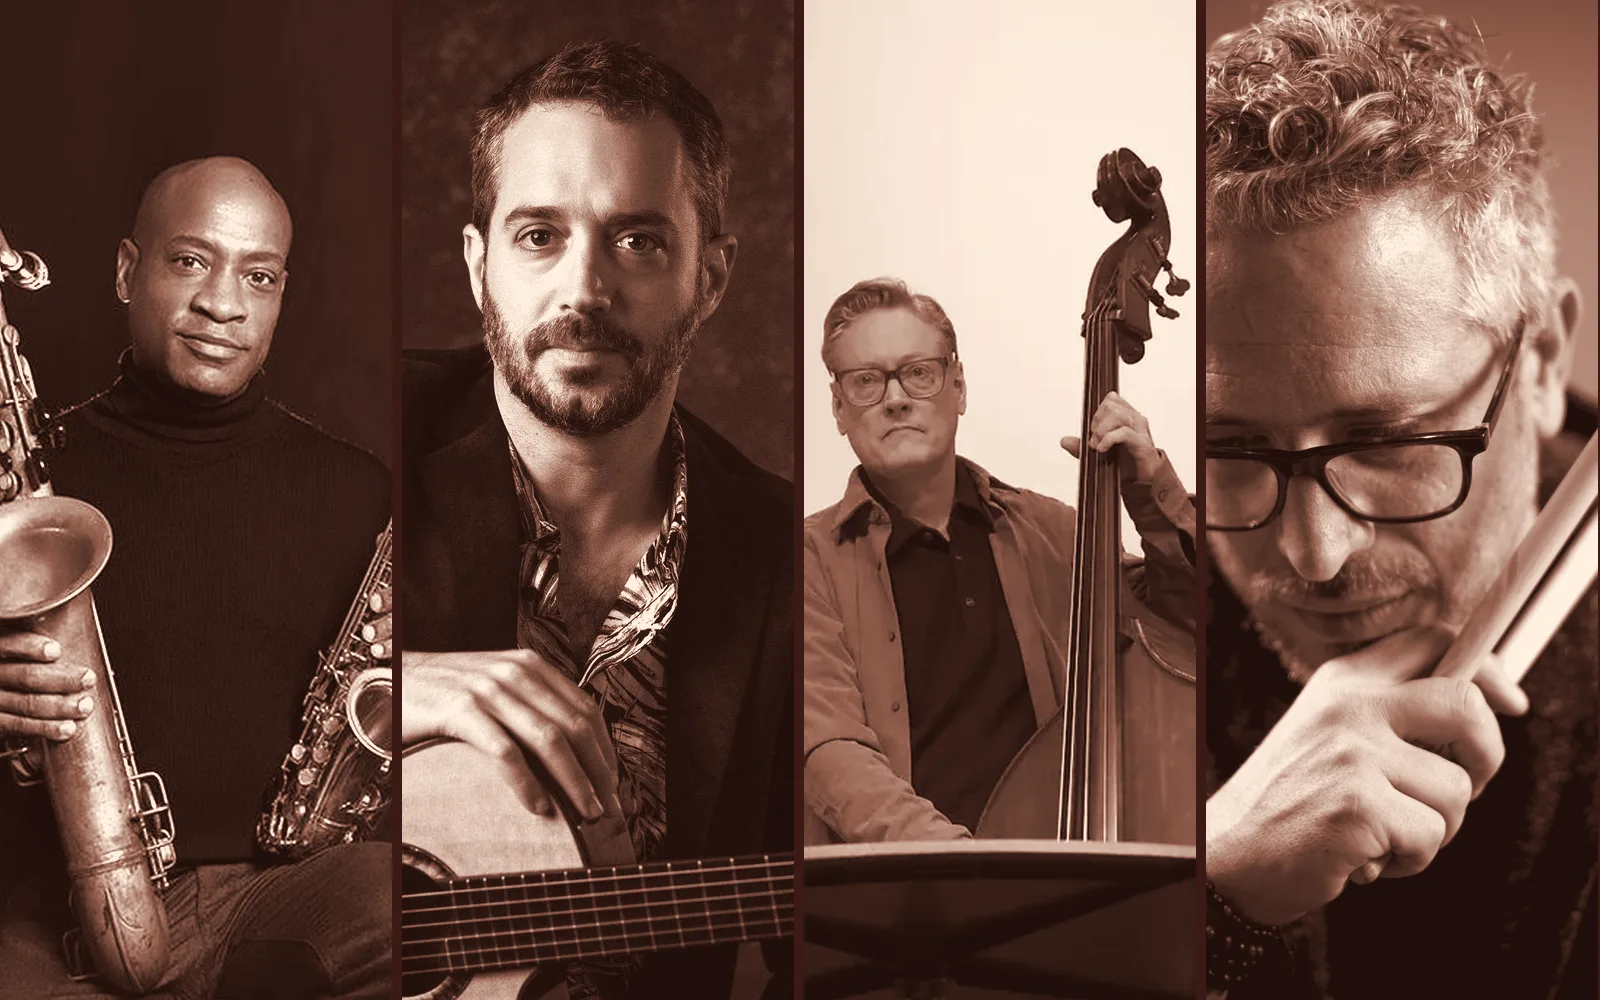
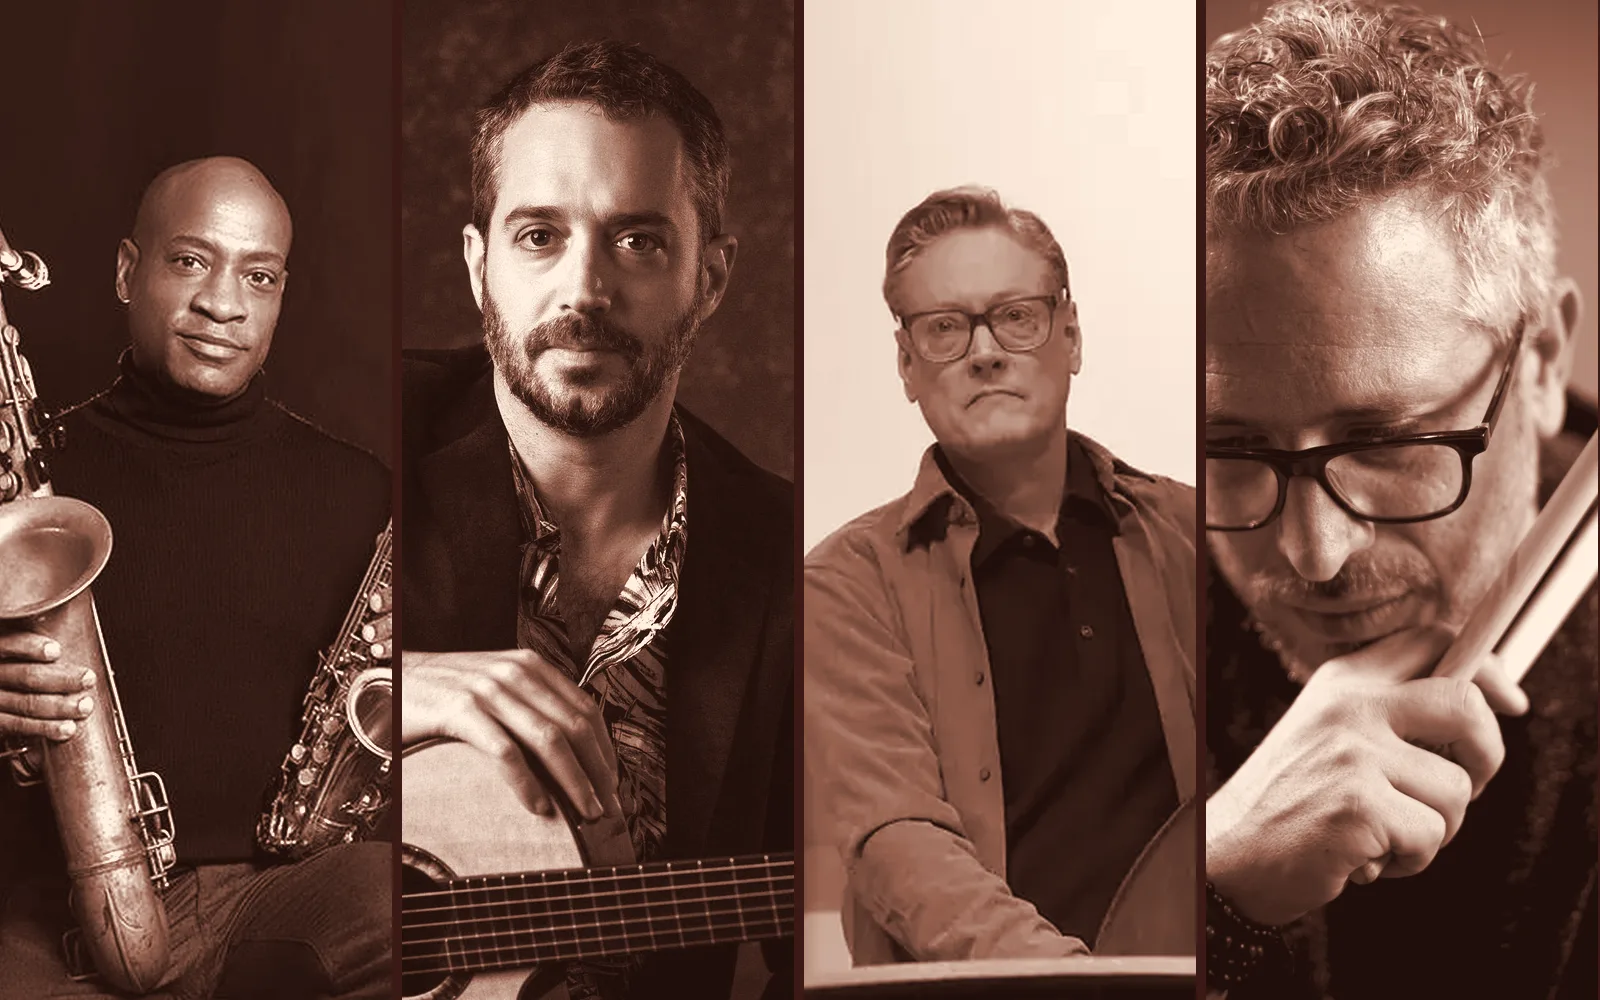
Guests baked into the show photo (Addis Ken + Ehud Banai, Amit Friedman & Strings + Joca) so previews show them too; Doug Weiss larger in the New York Junction photo

Changed region(s): [[0.5, 0.124, 0.75, 0.992]]

diff --git a/preview-uz9hsq/assets/data.js b/preview-uz9hsq/assets/data.js
@@ -159,7 +159,7 @@ const SHOWS = [
     about_en: ["In a special production for the festival, saxophonist and composer Amit Friedman, winner of the Prime Minister’s Prize for Composers, presents a new line-up: a jazz quartet alongside ten string players, hosting Brazilian percussionist, singer and songwriter Joca Perpignan. Original compositions by both, together with pieces they wrote jointly, bring the language of jazz together with the rich sound of strings and the rhythms of Brazil.", "Amit Friedman is one of the leading voices in Israeli jazz; his music is faithful to the jazz tradition while weaving in sounds from the Middle East and world music. His debut album, Sunrise, recorded with a sextet and string quartet, was the best-selling jazz album in Israel in the year of its release. He has since released albums on international labels such as Origin Records and Dot Time and performed with his band in Israel and Europe. Friedman is the founder of the festival and, for the second year, its musical director. Alongside his busy career as a saxophonist, he works extensively to promote jazz among young people.", "Joca Perpignan, born in Rio de Janeiro, came to Tel Aviv at 15 and has built a career in both countries. He is a member of the Idan Raichel Project, has played with Matti Caspi, Yoni Rechter and Arik Einstein, and internationally with Paquito D'Rivera, João Donato and Mayra Andrade."],
     cast: ["עמית פרידמן – סקסופון, לחנים ועיבודים · קטיה טובול – פסנתר · גיא לוי – קונטרבס · יונתן רוזן – תופים", "אבנר קלמר, טלי גולדברג, חן שנהר – כינורות · דניאל תנחלסון, יעל פטיש – ויולות · הילה אפשטיין, יעל שיזף – צ'לו", "אורח מיוחד: ז'וקה פרפיניאן – כלי הקשה ושירה"],
     cast_en: ["Amit Friedman – saxophone, compositions and arrangements · Katia Toubol – piano · Guy Levy – double bass · Yonatan Rosen – drums", "Avner Kelmer, Tali Goldberg, Chen Shenhar – violins · Daniel Tanchelson, Yael Patish – violas · Hila Epstein, Yael Shizaf – cello", "Special guest: Joca Perpignan – percussion and vocals"],
-    img: "2026-amit-strings.jpg", pos: "50% 30%", img2: "2026-joca.jpg", pos2: "88% 40%", credit2: "ז׳וקה: אריאל אפרון", credit2_en: "Joca: Ariel Efron" , slug: "event/32060" },
+    img: "2026-friedman-host.jpg", credit: "ז׳וקה: אריאל אפרון", credit_en: "Joca: Ariel Efron" , slug: "event/32060" },
   { id: "tenors", day: "fri", time: "19:30", dur: 60, featured: true,
     venue: "מועדון הסלון", venue_en: "The Salon Club",
     title: "The Tenors of Our Time", title_en: "The Tenors of Our Time",
@@ -256,7 +256,7 @@ const SHOWS = [
     quotes_en: ["“Every note in this show flies straight to the soul” – Ben Shalev, Haaretz"],
     cast: ["אבטה בריהון – שירה וסקסופונים · רועי מור – פסנתר · דוד מיכאלי – בס · ניצן בירנבאום – תופים", "אורח מיוחד: אהוד בנאי"],
     cast_en: ["Abate Berihun – vocals and saxophones · Roy Mor – piano · David Michaeli – bass · Nitzan Birnbaum – drums", "Special guest: Ehud Banai"],
-    img: "2026-adis-ken.jpg", credit: "רונן גולדמן", credit_en: "Ronen Goldman", img2: "2026-ehud-banai.jpg", guest: { he: "מתארח: אהוד בנאי", en: "Guest: Ehud Banai" }, credit2: "אהוד בנאי: גבריאל בהרליה ואורית פניני", credit2_en: "Ehud Banai: Gabriel Baharlia and Orit Pinini", yt: ["HzQ4KXCbX6Y", "vtK2Qp57ic8"], playlist: "PLzPNghaotCrcxQaJxppSylBAiH8weiCa_" , slug: "event/32071" },
+    img: "2026-adis-ken-host.jpg", credit: "רונן גולדמן · אהוד בנאי: גבריאל בהרליה ואורית פניני", credit_en: "Ronen Goldman · Ehud Banai: Gabriel Baharlia and Orit Pinini", yt: ["HzQ4KXCbX6Y", "vtK2Qp57ic8"], playlist: "PLzPNghaotCrcxQaJxppSylBAiH8weiCa_" , slug: "event/32071" },
   { id: "jam-sat", day: "sat", time: "22:30", dur: 90, free: true, jam: true,
     venue: "רחבת הפסטיבל", venue_en: "Festival Plaza",
     title: "ג'אם סשן ברחבת הפסטיבל", title_en: "Jam Session on the Festival Plaza",

diff --git a/preview-uz9hsq/en/festival-2025.html b/preview-uz9hsq/en/festival-2025.html
@@ -23,7 +23,7 @@
 <link href="https://fonts.googleapis.com/css2?family=Rubik:wght@400;500;700;900&display=swap" rel="stylesheet">
 <link rel="preload" href="/preview-uz9hsq/assets/fonts/xenon-ruckus.woff2" as="font" type="font/woff2" crossorigin>
 
-<link rel="stylesheet" href="/preview-uz9hsq/assets/site.css?v=0976466daa">
+<link rel="stylesheet" href="/preview-uz9hsq/assets/site.css?v=53f05006c0">
 <script>document.documentElement.classList.add('js')</script>
 </head>
 <body>
@@ -52,8 +52,8 @@
 
 </main>
 
-<script src="/preview-uz9hsq/assets/data.js?v=0976466daa"></script>
-<script src="/preview-uz9hsq/assets/site.js?v=0976466daa"></script>
+<script src="/preview-uz9hsq/assets/data.js?v=53f05006c0"></script>
+<script src="/preview-uz9hsq/assets/site.js?v=53f05006c0"></script>
 <script>
   document.getElementById('lineup2025').innerHTML = DAYS_2025.map(d => `
     <div class="daycol">
@@ -62,7 +62,7 @@
         <div class="slot"><time>${s.time}</time><div><div class="t">${tr(s, 'title')}</div><div class="v">${tr(s, 'venue')}</div></div></div>`).join('')}
     </div>`).join('');
 </script>
-<script src="/preview-uz9hsq/assets/gallery-2025.js?v=0976466daa"></script>
+<script src="/preview-uz9hsq/assets/gallery-2025.js?v=53f05006c0"></script>
 <script>renderGallery(document.getElementById('gal2025'), window.GALLERY_2025, 'gallery-2025');</script>
 </body>
 </html>

diff --git a/preview-uz9hsq/festival-2025.html b/preview-uz9hsq/festival-2025.html
@@ -23,7 +23,7 @@
 <link href="https://fonts.googleapis.com/css2?family=Rubik:wght@400;500;700;900&display=swap" rel="stylesheet">
 <link rel="preload" href="/preview-uz9hsq/assets/fonts/xenon-ruckus.woff2" as="font" type="font/woff2" crossorigin>
 
-<link rel="stylesheet" href="/preview-uz9hsq/assets/site.css?v=0976466daa">
+<link rel="stylesheet" href="/preview-uz9hsq/assets/site.css?v=53f05006c0">
 <script>document.documentElement.classList.add('js')</script>
 </head>
 <body>
@@ -52,8 +52,8 @@
 
 </main>
 
-<script src="/preview-uz9hsq/assets/data.js?v=0976466daa"></script>
-<script src="/preview-uz9hsq/assets/site.js?v=0976466daa"></script>
+<script src="/preview-uz9hsq/assets/data.js?v=53f05006c0"></script>
+<script src="/preview-uz9hsq/assets/site.js?v=53f05006c0"></script>
 <script>
   document.getElementById('lineup2025').innerHTML = DAYS_2025.map(d => `
     <div class="daycol">
@@ -62,7 +62,7 @@
         <div class="slot"><time>${s.time}</time><div><div class="t">${tr(s, 'title')}</div><div class="v">${tr(s, 'venue')}</div></div></div>`).join('')}
     </div>`).join('');
 </script>
-<script src="/preview-uz9hsq/assets/gallery-2025.js?v=0976466daa"></script>
+<script src="/preview-uz9hsq/assets/gallery-2025.js?v=53f05006c0"></script>
 <script>renderGallery(document.getElementById('gal2025'), window.GALLERY_2025, 'gallery-2025');</script>
 </body>
 </html>

diff --git a/preview-uz9hsq/en/media.html b/preview-uz9hsq/en/media.html
@@ -23,7 +23,7 @@
 <link href="https://fonts.googleapis.com/css2?family=Rubik:wght@400;500;700;900&display=swap" rel="stylesheet">
 <link rel="preload" href="/preview-uz9hsq/assets/fonts/xenon-ruckus.woff2" as="font" type="font/woff2" crossorigin>
 
-<link rel="stylesheet" href="/preview-uz9hsq/assets/site.css?v=0976466daa">
+<link rel="stylesheet" href="/preview-uz9hsq/assets/site.css?v=53f05006c0">
 <script>document.documentElement.classList.add('js')</script>
 </head>
 <body>
@@ -51,8 +51,8 @@
 
 </main>
 
-<script src="/preview-uz9hsq/assets/data.js?v=0976466daa"></script>
-<script src="/preview-uz9hsq/assets/site.js?v=0976466daa"></script>
+<script src="/preview-uz9hsq/assets/data.js?v=53f05006c0"></script>
+<script src="/preview-uz9hsq/assets/site.js?v=53f05006c0"></script>
 <script>
   document.getElementById('pressMail').href = `mailto:${SITE.email}?subject=${encodeURIComponent(L('בקשת אקרדיטציה – פסטיבל הג׳אז רעננה', 'Press accreditation – Raanana Jazz Festival'))}`;
   document.getElementById('pressPhotos').innerHTML = SHOWS.concat(SHOWS_2025).filter(s => s.img).filter((s, i, a) => a.findIndex(x => x.img === s.img) === i).map(s => `

diff --git a/preview-uz9hsq/media.html b/preview-uz9hsq/media.html
@@ -23,7 +23,7 @@
 <link href="https://fonts.googleapis.com/css2?family=Rubik:wght@400;500;700;900&display=swap" rel="stylesheet">
 <link rel="preload" href="/preview-uz9hsq/assets/fonts/xenon-ruckus.woff2" as="font" type="font/woff2" crossorigin>
 
-<link rel="stylesheet" href="/preview-uz9hsq/assets/site.css?v=0976466daa">
+<link rel="stylesheet" href="/preview-uz9hsq/assets/site.css?v=53f05006c0">
 <script>document.documentElement.classList.add('js')</script>
 </head>
 <body>
@@ -51,8 +51,8 @@
 
 </main>
 
-<script src="/preview-uz9hsq/assets/data.js?v=0976466daa"></script>
-<script src="/preview-uz9hsq/assets/site.js?v=0976466daa"></script>
+<script src="/preview-uz9hsq/assets/data.js?v=53f05006c0"></script>
+<script src="/preview-uz9hsq/assets/site.js?v=53f05006c0"></script>
 <script>
   document.getElementById('pressMail').href = `mailto:${SITE.email}?subject=${encodeURIComponent(L('בקשת אקרדיטציה – פסטיבל הג׳אז רעננה', 'Press accreditation – Raanana Jazz Festival'))}`;
   document.getElementById('pressPhotos').innerHTML = SHOWS.concat(SHOWS_2025).filter(s => s.img).filter((s, i, a) => a.findIndex(x => x.img === s.img) === i).map(s => `

diff --git a/preview-uz9hsq/en/lineup.html b/preview-uz9hsq/en/lineup.html
@@ -23,7 +23,7 @@
 <link href="https://fonts.googleapis.com/css2?family=Rubik:wght@400;500;700;900&display=swap" rel="stylesheet">
 <link rel="preload" href="/preview-uz9hsq/assets/fonts/xenon-ruckus.woff2" as="font" type="font/woff2" crossorigin>
 
-<link rel="stylesheet" href="/preview-uz9hsq/assets/site.css?v=0976466daa">
+<link rel="stylesheet" href="/preview-uz9hsq/assets/site.css?v=53f05006c0">
 <script>document.documentElement.classList.add('js')</script>
 </head>
 <body>
@@ -63,8 +63,8 @@
 
 </main>
 
-<script src="/preview-uz9hsq/assets/data.js?v=0976466daa"></script>
-<script src="/preview-uz9hsq/assets/site.js?v=0976466daa"></script>
+<script src="/preview-uz9hsq/assets/data.js?v=53f05006c0"></script>
+<script src="/preview-uz9hsq/assets/site.js?v=53f05006c0"></script>
 <script>
   document.querySelectorAll('.daytabs button').forEach(b => b.addEventListener('click', () => {
     document.querySelectorAll('.daytabs button').forEach(x => x.classList.toggle('on', x === b));

diff --git a/preview-uz9hsq/lineup.html b/preview-uz9hsq/lineup.html
@@ -23,7 +23,7 @@
 <link href="https://fonts.googleapis.com/css2?family=Rubik:wght@400;500;700;900&display=swap" rel="stylesheet">
 <link rel="preload" href="/preview-uz9hsq/assets/fonts/xenon-ruckus.woff2" as="font" type="font/woff2" crossorigin>
 
-<link rel="stylesheet" href="/preview-uz9hsq/assets/site.css?v=0976466daa">
+<link rel="stylesheet" href="/preview-uz9hsq/assets/site.css?v=53f05006c0">
 <script>document.documentElement.classList.add('js')</script>
 </head>
 <body>
@@ -63,8 +63,8 @@
 
 </main>
 
-<script src="/preview-uz9hsq/assets/data.js?v=0976466daa"></script>
-<script src="/preview-uz9hsq/assets/site.js?v=0976466daa"></script>
+<script src="/preview-uz9hsq/assets/data.js?v=53f05006c0"></script>
+<script src="/preview-uz9hsq/assets/site.js?v=53f05006c0"></script>
 <script>
   document.querySelectorAll('.daytabs button').forEach(b => b.addEventListener('click', () => {
     document.querySelectorAll('.daytabs button').forEach(x => x.classList.toggle('on', x === b));

diff --git a/preview-uz9hsq/en/tickets.html b/preview-uz9hsq/en/tickets.html
@@ -23,7 +23,7 @@
 <link href="https://fonts.googleapis.com/css2?family=Rubik:wght@400;500;700;900&display=swap" rel="stylesheet">
 <link rel="preload" href="/preview-uz9hsq/assets/fonts/xenon-ruckus.woff2" as="font" type="font/woff2" crossorigin>
 
-<link rel="stylesheet" href="/preview-uz9hsq/assets/site.css?v=0976466daa">
+<link rel="stylesheet" href="/preview-uz9hsq/assets/site.css?v=53f05006c0">
 <script>document.documentElement.classList.add('js')</script>
 </head>
 <body>
@@ -43,8 +43,8 @@
 
 </main>
 
-<script src="/preview-uz9hsq/assets/data.js?v=0976466daa"></script>
-<script src="/preview-uz9hsq/assets/site.js?v=0976466daa"></script>
+<script src="/preview-uz9hsq/assets/data.js?v=53f05006c0"></script>
+<script src="/preview-uz9hsq/assets/site.js?v=53f05006c0"></script>
 <script>
   renderShowList(document.getElementById('freeShows'));
   document.querySelectorAll('#freeShows .showrow').forEach((row, i) => { if (!SHOWS[i].free && !SHOWS[i].kids) row.remove(); });

diff --git a/preview-uz9hsq/tickets.html b/preview-uz9hsq/tickets.html
@@ -23,7 +23,7 @@
 <link href="https://fonts.googleapis.com/css2?family=Rubik:wght@400;500;700;900&display=swap" rel="stylesheet">
 <link rel="preload" href="/preview-uz9hsq/assets/fonts/xenon-ruckus.woff2" as="font" type="font/woff2" crossorigin>
 
-<link rel="stylesheet" href="/preview-uz9hsq/assets/site.css?v=0976466daa">
+<link rel="stylesheet" href="/preview-uz9hsq/assets/site.css?v=53f05006c0">
 <script>document.documentElement.classList.add('js')</script>
 </head>
 <body>
@@ -43,8 +43,8 @@
 
 </main>
 
-<script src="/preview-uz9hsq/assets/data.js?v=0976466daa"></script>
-<script src="/preview-uz9hsq/assets/site.js?v=0976466daa"></script>
+<script src="/preview-uz9hsq/assets/data.js?v=53f05006c0"></script>
+<script src="/preview-uz9hsq/assets/site.js?v=53f05006c0"></script>
 <script>
   renderShowList(document.getElementById('freeShows'));
   document.querySelectorAll('#freeShows .showrow').forEach((row, i) => { if (!SHOWS[i].free && !SHOWS[i].kids) row.remove(); });

diff --git a/preview-uz9hsq/accessibility.html b/preview-uz9hsq/accessibility.html
@@ -23,7 +23,7 @@
 <link href="https://fonts.googleapis.com/css2?family=Rubik:wght@400;500;700;900&display=swap" rel="stylesheet">
 <link rel="preload" href="/preview-uz9hsq/assets/fonts/xenon-ruckus.woff2" as="font" type="font/woff2" crossorigin>
 
-<link rel="stylesheet" href="/preview-uz9hsq/assets/site.css?v=0976466daa">
+<link rel="stylesheet" href="/preview-uz9hsq/assets/site.css?v=53f05006c0">
 <script>document.documentElement.classList.add('js')</script>
 </head>
 <body>
@@ -62,8 +62,8 @@
 
 </main>
 
-<script src="/preview-uz9hsq/assets/data.js?v=0976466daa"></script>
-<script src="/preview-uz9hsq/assets/site.js?v=0976466daa"></script>
+<script src="/preview-uz9hsq/assets/data.js?v=53f05006c0"></script>
+<script src="/preview-uz9hsq/assets/site.js?v=53f05006c0"></script>
 <script>
   const c = SITE.a11yContact || {};
   const lines = [c.name, c.phone, c.email || SITE.email].filter(Boolean);

diff --git a/preview-uz9hsq/en/accessibility.html b/preview-uz9hsq/en/accessibility.html
@@ -23,7 +23,7 @@
 <link href="https://fonts.googleapis.com/css2?family=Rubik:wght@400;500;700;900&display=swap" rel="stylesheet">
 <link rel="preload" href="/preview-uz9hsq/assets/fonts/xenon-ruckus.woff2" as="font" type="font/woff2" crossorigin>
 
-<link rel="stylesheet" href="/preview-uz9hsq/assets/site.css?v=0976466daa">
+<link rel="stylesheet" href="/preview-uz9hsq/assets/site.css?v=53f05006c0">
 <script>document.documentElement.classList.add('js')</script>
 </head>
 <body>
@@ -62,8 +62,8 @@
 
 </main>
 
-<script src="/preview-uz9hsq/assets/data.js?v=0976466daa"></script>
-<script src="/preview-uz9hsq/assets/site.js?v=0976466daa"></script>
+<script src="/preview-uz9hsq/assets/data.js?v=53f05006c0"></script>
+<script src="/preview-uz9hsq/assets/site.js?v=53f05006c0"></script>
 <script>
   const c = SITE.a11yContact || {};
   const lines = [c.name, c.phone, c.email || SITE.email].filter(Boolean);

diff --git a/preview-uz9hsq/en/venue.html b/preview-uz9hsq/en/venue.html
@@ -23,7 +23,7 @@
 <link href="https://fonts.googleapis.com/css2?family=Rubik:wght@400;500;700;900&display=swap" rel="stylesheet">
 <link rel="preload" href="/preview-uz9hsq/assets/fonts/xenon-ruckus.woff2" as="font" type="font/woff2" crossorigin>
 
-<link rel="stylesheet" href="/preview-uz9hsq/assets/site.css?v=0976466daa">
+<link rel="stylesheet" href="/preview-uz9hsq/assets/site.css?v=53f05006c0">
 <script>document.documentElement.classList.add('js')</script>
 </head>
 <body>
@@ -58,8 +58,8 @@
 
 </main>
 
-<script src="/preview-uz9hsq/assets/data.js?v=0976466daa"></script>
-<script src="/preview-uz9hsq/assets/site.js?v=0976466daa"></script>
+<script src="/preview-uz9hsq/assets/data.js?v=53f05006c0"></script>
+<script src="/preview-uz9hsq/assets/site.js?v=53f05006c0"></script>
 <script>
   document.getElementById('venues').innerHTML = VENUES.map(v => `
     <div class="venue-card">
